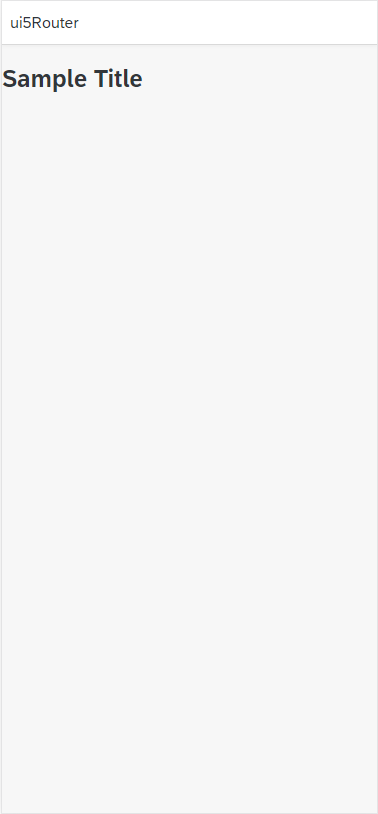
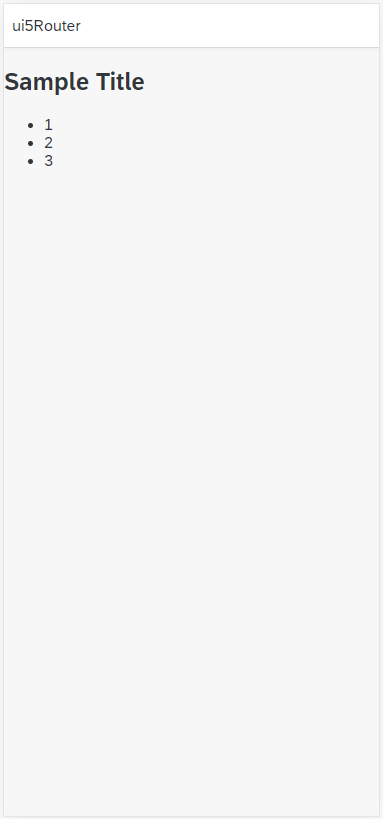
GitBook: [master] one page and 2 assets modified

diff --git a/open-ui5-tutorials/open-ui5-tutorials/tutorial-10.-custom-controls.md b/open-ui5-tutorials/open-ui5-tutorials/tutorial-10.-custom-controls.md
@@ -68,7 +68,64 @@ sap.ui.define([
 ```
 {% endcode %}
 
-![](../../.gitbook/assets/image%20%2826%29.png)
+![](../../.gitbook/assets/image%20%2827%29.png)
 
 ![](../../.gitbook/assets/image%20%2825%29.png)
+
+ES6문법을 활용한 커스텀 리스트 
+
+{% code title="" %}
+```javascript
+sap.ui.define([
+    "sap/ui/core/Control",
+    "sap/ui/model/json/JSONModel"
+],function(Control,JSONModel){
+    "use strict"
+    return Control.extend("com.myorg.ui5Router.controller.myControl",{
+        metadata : {
+            properties : {
+                "text" : {
+                    type : "string"
+                }
+            },
+            events: {
+                press: {enablePreventDefault : true}
+             }
+        },
+        ontap: function () {
+            alert(`click ${this.getText()}`);   
+        },
+        init : function(){
+            var oData = [
+                { "title" : "1"},
+                { "title" : "2"},
+                { "title" : "3"}
+            ];
+            sap.ui.getCore().setModel(new JSONModel(oData), 'oModel');
+            // console.log(sap.ui.getCore().getModel("oModel"));
+        },
+        onGetList : function(){
+            var lists = sap.ui.getCore().getModel("oModel").getData();
+            
+            var res = `<ul>`;
+            lists.forEach((param)=>
+                res += `<li>${param.title}</li>`
+            );
+            res += `</ul>`;
+            return res;
+        },
+        renderer : function(oRM, oControl){
+            oRM.write(`<div`);
+            oRM.writeControlData(oControl); //
+            oRM.write(`>`);
+            oRM.write(`<h1>${oControl.getText()}</h1>
+            ${oControl.onGetList()}
+            </div>`);
+        }
+    })
+});
+```
+{% endcode %}
+
+![](../../.gitbook/assets/image%20%2826%29.png)
 
